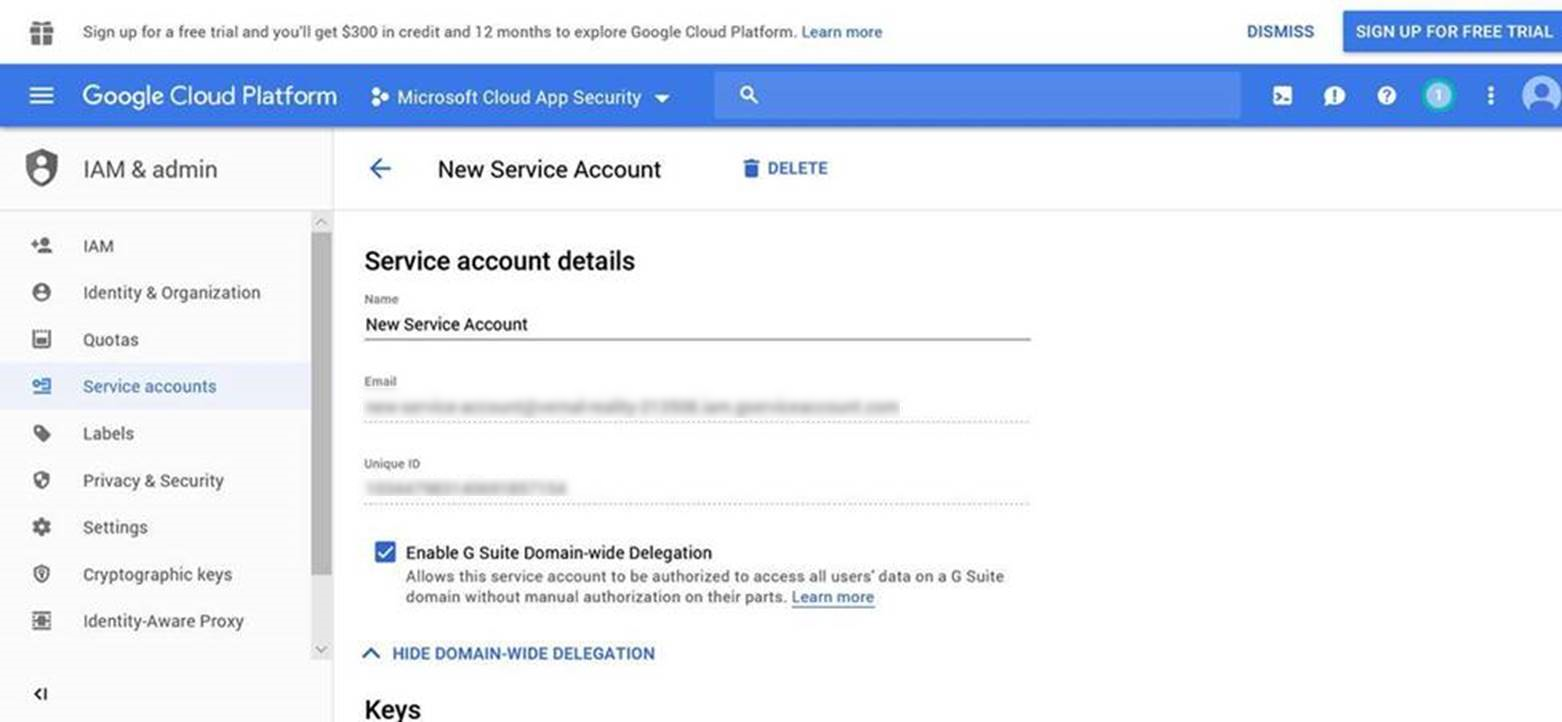
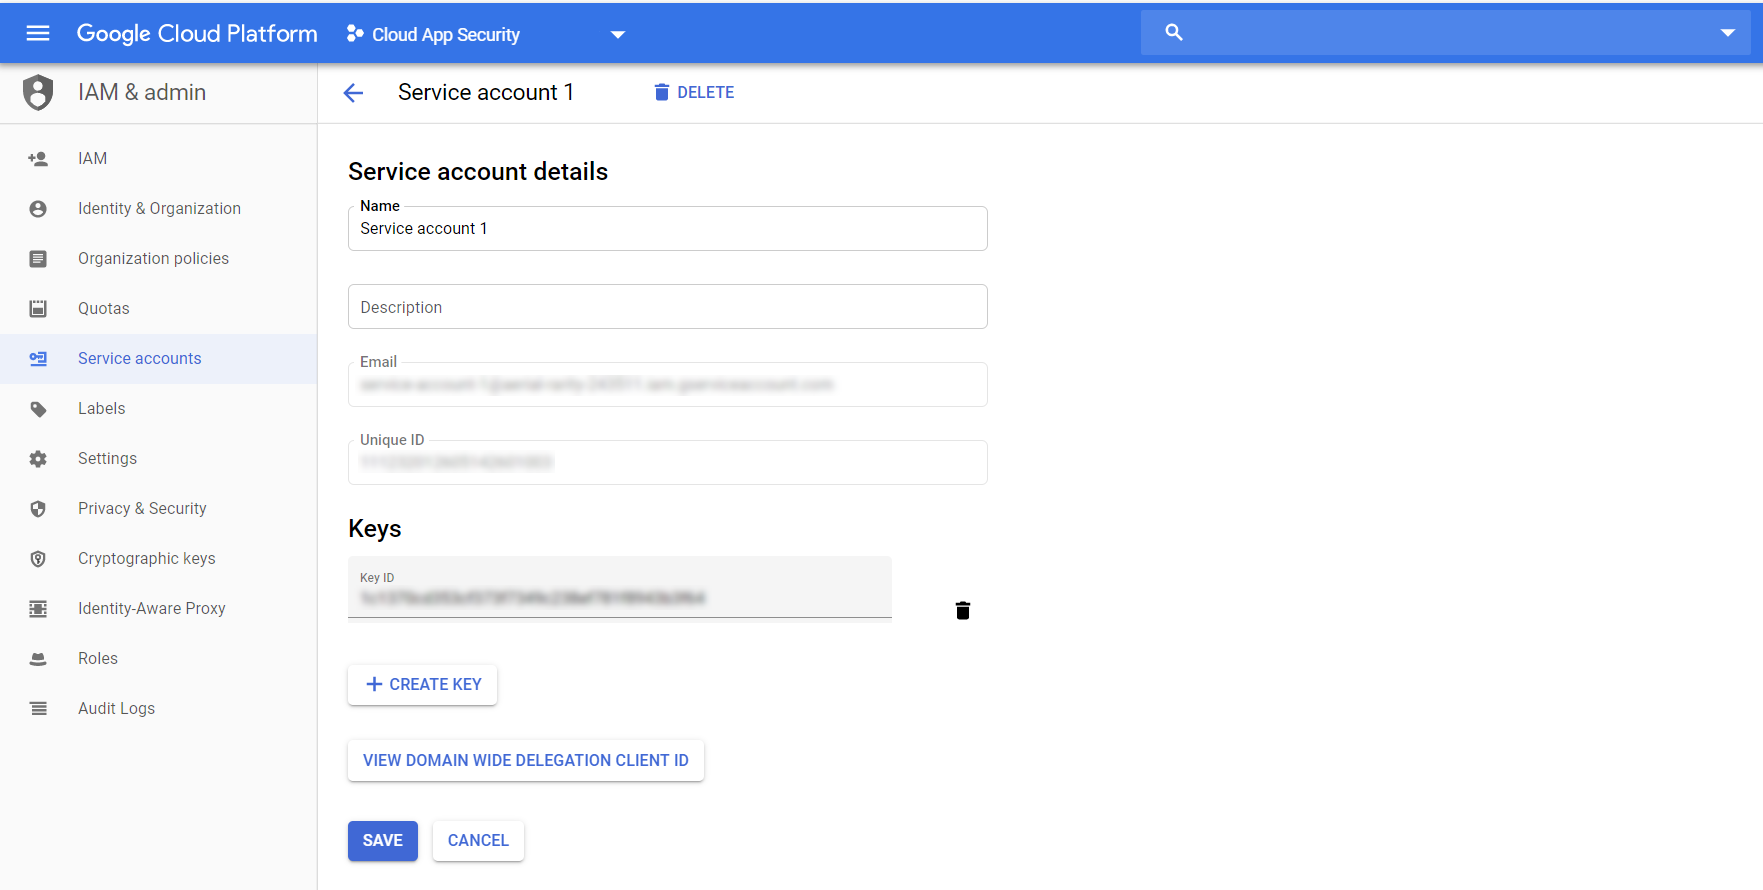
Mods for Boris

diff --git a/CloudAppSecurityDocs/connect-google-apps-to-microsoft-cloud-app-security.md b/CloudAppSecurityDocs/connect-google-apps-to-microsoft-cloud-app-security.md
@@ -4,10 +4,10 @@
 title: Connect G Suite to Cloud App Security
 description: This article provides information about how to connect your G Suite to Cloud App Security using the API connector for visibility and control over use.
 keywords:
-author: rkarlin
-ms.author: rkarlin
-manager: rkarlin
-ms.date: 12/10/2018
+author: ShlomoSagir-MS
+ms.author: ShlomoSagir-MS
+manager: ShlomoSagir-MS
+ms.date: 6/17/2019
 ms.topic: conceptual
 ms.collection: M365-security-compliance
 ms.prod:
@@ -41,41 +41,39 @@ This article provides instructions for connecting Microsoft Cloud App Security t
     ![google1](./media/google1.png "google1")  
   
 3. In the **New project** screen, name your project as follows:</br>
-   **Microsoft Cloud App Security** and click **Create**.  
+   **Cloud App Security** and click **Create**.  
           ![google2](./media/google2.png "google2")  
   
 4. After the project is created, in the tool bar, click on **Google Cloud Platform**. Make sure that the right project is selected in the drop-down at the top.
        
       ![google project](./media/googleverify-project.png "googleverify project")  
 
-5. Under **APIs** click **Go to APIs overview**.  
+5. Under **APIs**, click **Go to API's overview**.  
   
      ![google3](./media/google3.png "google3")  
    
-7. Click on **Library** and enable the following APIs (use the search line if the API isn't listed in the **Popular APIs** list):  
-     
+6. Click on **Library** and enable the following APIs (use the search line if the API isn't listed in the **Popular APIs** list):  
+
    -   Admin SDK  
   
-   -   Audit API  
+   -   Audit API
   
-   -   Google Drive API  
+   -   Google Drive API
   
-   -   G Suite Marketplace SDK  
-  
-   -   Gmail API  
-            
+   -   G Suite Marketplace SDK
+
    ![google apis](./media/google4.png "google4")  
   
    > [!NOTE]  
    >  Ignore the **Credentials** warning for now.  
 
-8. Click on Enable for each API.
+7. Click on Enable for each API.
      ![enable Google APPI](./media/google-api.png "google-api")  
-9. Make sure you have the following APIs enabled:
+8. Make sure you have the following APIs enabled:
   
      ![google enabled apis](./media/google5.png "google5")  
   
-10. Click **Credentials** and then select the **OAuth consent screen** tab.
+9. Click **Credentials** and then select the **OAuth consent screen** tab.
   
     - In **Product name shown to users**, type **Microsoft Cloud App Security**.  
   
@@ -85,38 +83,56 @@ This article provides instructions for connecting Microsoft Cloud App Security t
   
       ![Google oauth consent](./media/google-oauth-consent.png "google oauth conesent")  
   
-11. In the **Credentials** tab, click the arrow next to **Create credentials**.  
+10. In the **Credentials** tab, click the arrow next to **Create credentials**.  
   
      ![Google credentials](./media/google7.png "google7")  
 
-12. Select **Service account key**.
+11. Select **Service account key**.
 
      ![Google service account key](./media/google8.png "google8")  
   
-13. Under **Create service account key**, choose **New service account**, and type any name, for example **Service account 1**. Under **Role**, choose **Project** and then **Editor**. Under **Key type**, choose **P12** and click **Create**. A P12 certificate file is saved to your computer.
+12. Under **Create service account key**, choose **New service account**, and type any name, for example **Service account 1**. Under **Role**, choose **Project** and then **Editor**. Under **Key type**, choose **P12** and click **Create**. A P12 certificate file is saved to your computer.
  
      ![Create service account key in Google](./media/google9.png "google9")  
   
-14. Copy the **Service account ID** assigned to your service - you need it later.    
+13. Copy the **Service account ID** assigned to your service - you need it later.
         
-15. In the **Credentials** screen, click **Manage service accounts** in the far right.  
+14. In the **Credentials** screen, click **Manage service accounts** in the far right.  
      
     ![G Suite credentials service account](./media/google10.png "G Suite credentials service account")  
   
-16. Click the three dots to the right of the service account you created and select **Edit**.  
+15. Click the three dots to the right of the service account you created and select **Edit**.  
   
      ![google edit](./media/google11.png "google edit")  
   
-17. Select the **Enable G Suite Domain-wide Delegation** check box and click **Save**.  
+16. Click **VIEW DOMAIN WIDE DELEGATION CLIENT ID**.
   
-     ![google service account ID](./media/google12.png "google12")  
-  
-18. Open the Google menu by clicking the three horizontal lines next to Google Cloud Platform in the title bar. Click on **Google Cloud Platform** and then click the **APIs and services** tab in the left-menu.  
-    
-19. In the Dashboard that opens, scroll down to the list of enabled APIs and click on **Google Drive API**.   
+     ![google client ID](./media/google12.png "google12") 
+
+    -   Copy the **Client ID** - you need it later.
+
+    -   Go to [admin.google.com](https://admin.google.com/) and then choose **Security**.
+
+    -   Select **Show more** and then choose **Advanced settings**.
+
+    -   In the **Authentication** section, select **Manage API client access**.
+
+    -   In the **Client Name** box, enter the **Client ID** that you copied earlier.
+
+          ![manage api client access](./media/google12-2.png "google12-2")
+
+    -   In the **One or More API Scopes** box, enter the following list of required scopes (copy the text and paste it in the box):
+
+        `https://www.googleapis.com/auth/admin.reports.audit.readonly,https://www.googleapis.com/auth/admin.reports.usage.readonly,https://www.googleapis.com/auth/drive,https://www.googleapis.com/auth/drive.appdata,https://www.googleapis.com/auth/drive.apps.readonly,https://www.googleapis.com/auth/drive.file,https://www.googleapis.com/auth/drive.metadata.readonly,https://www.googleapis.com/auth/drive.readonly,https://www.googleapis.com/auth/drive.scripts,https://www.googleapis.com/auth/admin.directory.user.readonly,https://www.googleapis.com/auth/admin.directory.user.security,https://www.googleapis.com/auth/admin.directory.user.alias,https://www.googleapis.com/auth/admin.directory.orgunit,https://www.googleapis.com/auth/admin.directory.notifications,https://www.googleapis.com/auth/admin.directory.group.member,https://www.googleapis.com/auth/admin.directory.group,https://www.googleapis.com/auth/admin.directory.device.mobile.action,https://www.googleapis.com/auth/admin.directory.device.mobile,https://www.googleapis.com/auth/admin.directory.user`
+
+    -    Click **Authorize**.
+
+17. Open the Google menu by clicking the three horizontal lines next to Google Cloud Platform in the title bar. Click on **Google Cloud Platform** and then click the **APIs and services** tab in the left-menu.  
+
+18. In the Dashboard that opens, scroll down to the list of enabled APIs and click on **Google Drive API**.
        ![Select Google Drive](./media/google14.png "google14")  
 
-20. Click on the **Drive UI Integration** tab and fill in the following information:
+19. Click on the **Drive UI Integration** tab and fill in the following information:
 
     - **Application Name**: Microsoft Cloud App Security.  
   
@@ -130,11 +146,11 @@ This article provides instructions for connecting Microsoft Cloud App Security t
     
       ![Edit Google Drive](./media/google15.png "google15")  
 
-21. Click **Save changes**.
+20. Click **Save changes**.
 
-22. Go back to the **Enabled APIs** list. Click **G Suite Marketplace SDK**. 
+21. Go back to the **Enabled APIs** list. Click **G Suite Marketplace SDK**. 
       
-23. Select the **Configuration** tab. 
+22. Select the **Configuration** tab. 
   
     -   Copy the **Project number (App ID)** that appears at the top to use later.  
   
@@ -200,14 +216,14 @@ This article provides instructions for connecting Microsoft Cloud App Security t
     -   Under **Visibility**, select **My domain** (not public). 
     -   Click on **Save Changes**.  
         ![google visibility](./media/google-visibility.png "google visibility")  
-24. Go to [admin.google.com](https://admin.google.com/) and then choose **Security**. 
+23. Go to [admin.google.com](https://admin.google.com/) and then choose **Security**.
    
       ![google security](./media/googlesec.png "google security")  
  
-25. Choose **API reference**.  
+24. Choose **API reference**.  
        ![google api enable](./media/googleapi.png "google api")  
       
-26. Select **Enable API Access** and click **Save changes**.  
+25. Select **Enable API Access** and click **Save changes**.  
   
     ![google api reference](./media/googleapiref.png "google8")  
 
@@ -225,7 +241,7 @@ This article provides instructions for connecting Microsoft Cloud App Security t
   
     1.  **Service account ID** that you copied in step 13.  
   
-    2.  **Project number (App ID)** that you copied in step 21.  
+    2.  **Project number (App ID)** that you copied in step 22.  
   
     3.  Upload the **Certificate** P12 that you saved in step 12. You need the password you saved to do this.  
   
